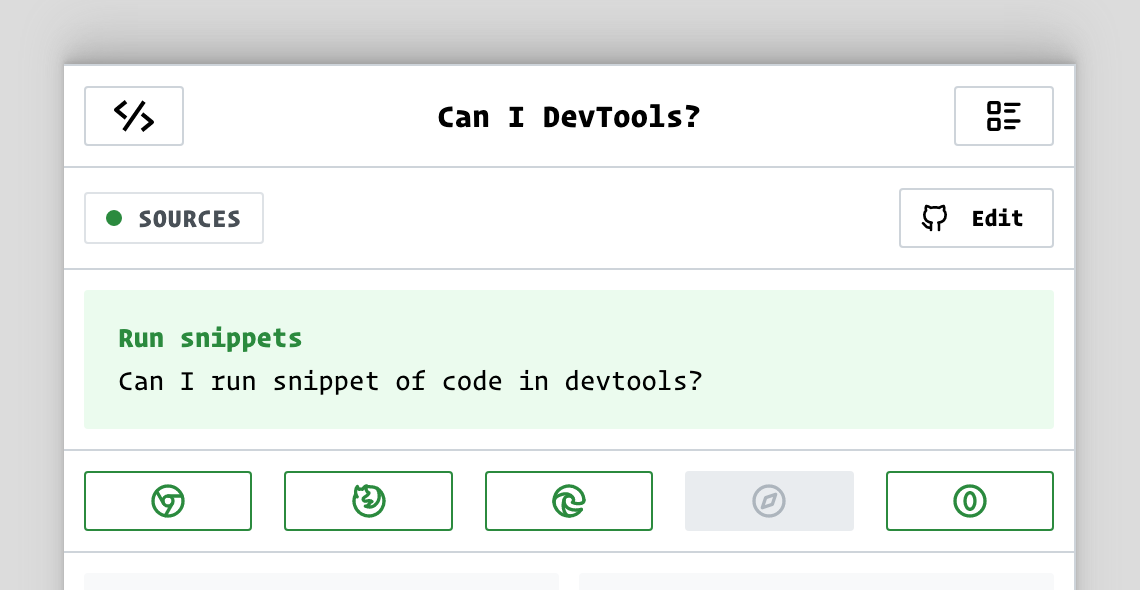
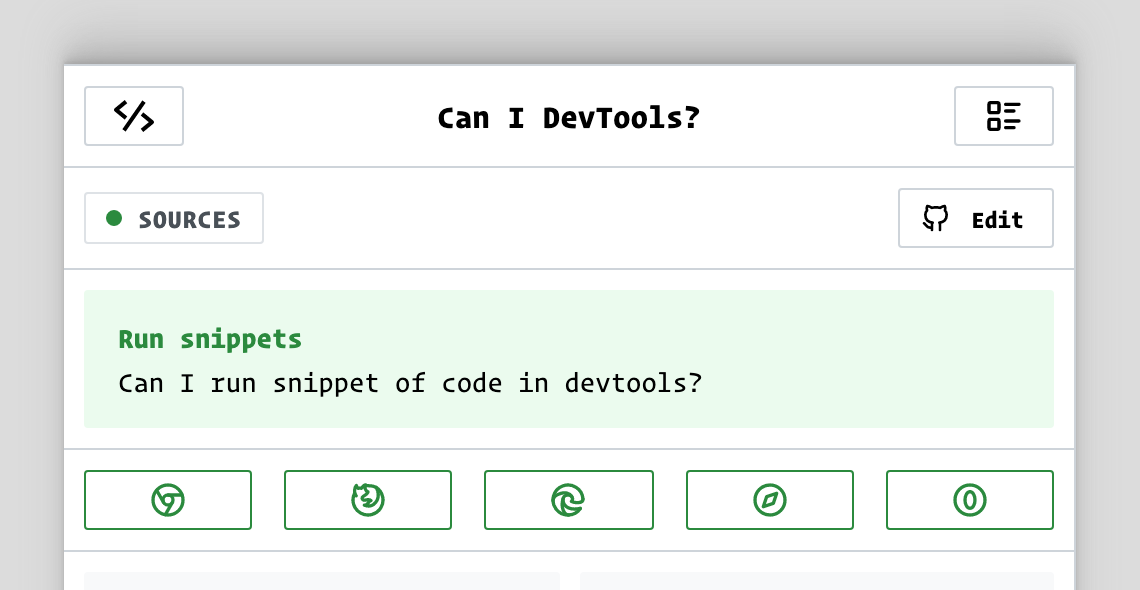
added safari

diff --git a/README.md b/README.md
@@ -1290,6 +1290,9 @@ console.table([
  1. **Sources** > In the left sidebar, open **Snippets** > Click "+ New snippet". This will open an empty file in the main view.
 2. Enter the snippet and press `Cmd+Enter` to run the code.
 3. Additionally, you can also save the snippet and run it directly from the **Command** **Menu** using `!<script>`.
+- [Safari](https://canidev.tools/run-snippets/safari) 
+ 1. In **Sources** > Click the "+" button to **Create** **Resource** > "Console Snippet...". Input the name of the snippet and enter the script.
+2. Click the **Play** button next to the snippet name to execute the code in **Console**. 
 - [Opera](https://canidev.tools/run-snippets/opera) 
  1. **Sources** > In the left sidebar, open **Snippets** > Click "+ New snippet". This will open an empty file in the main view.
 2. Enter the snippet and press `Cmd+Enter` to run the code.
